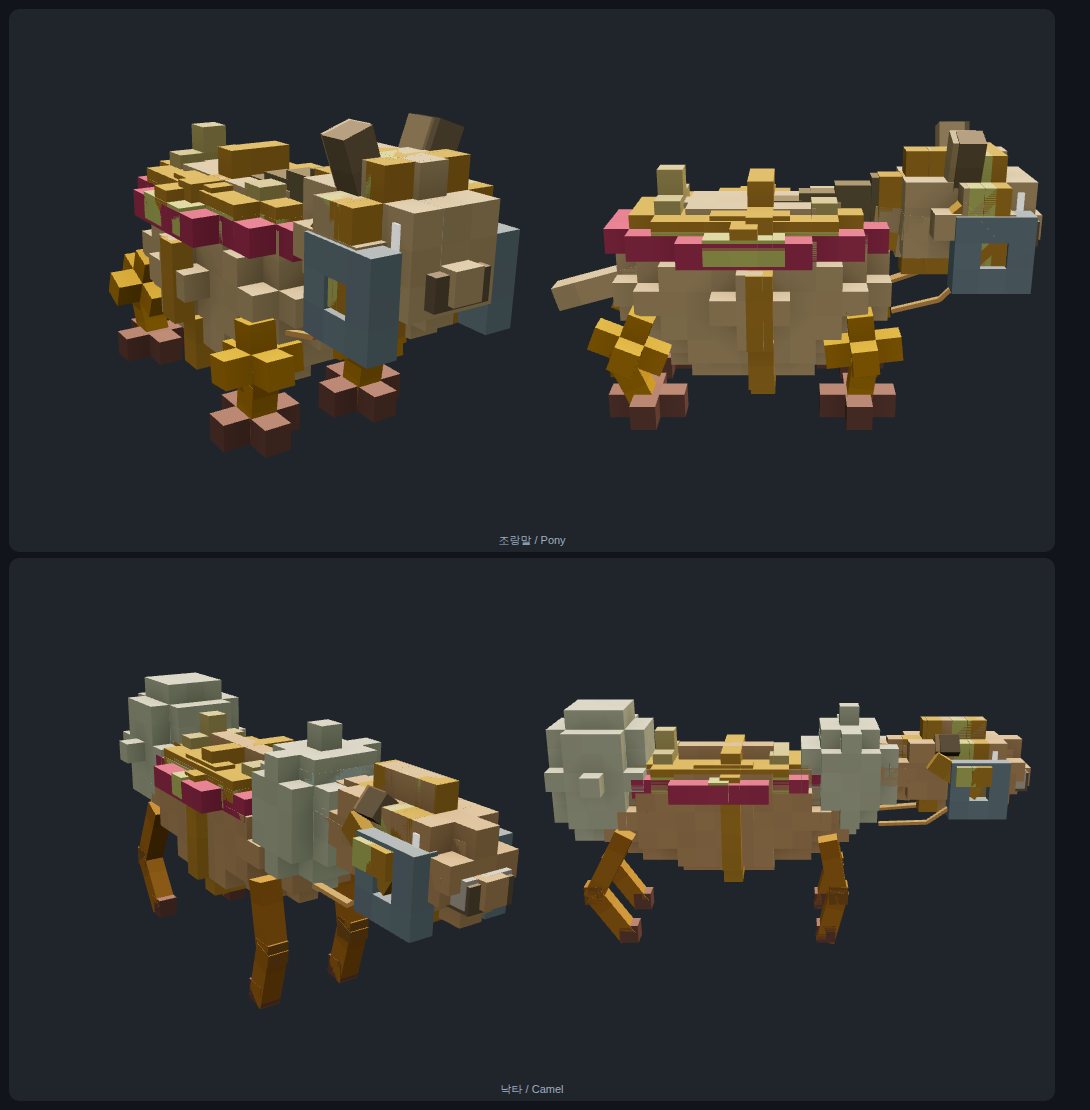
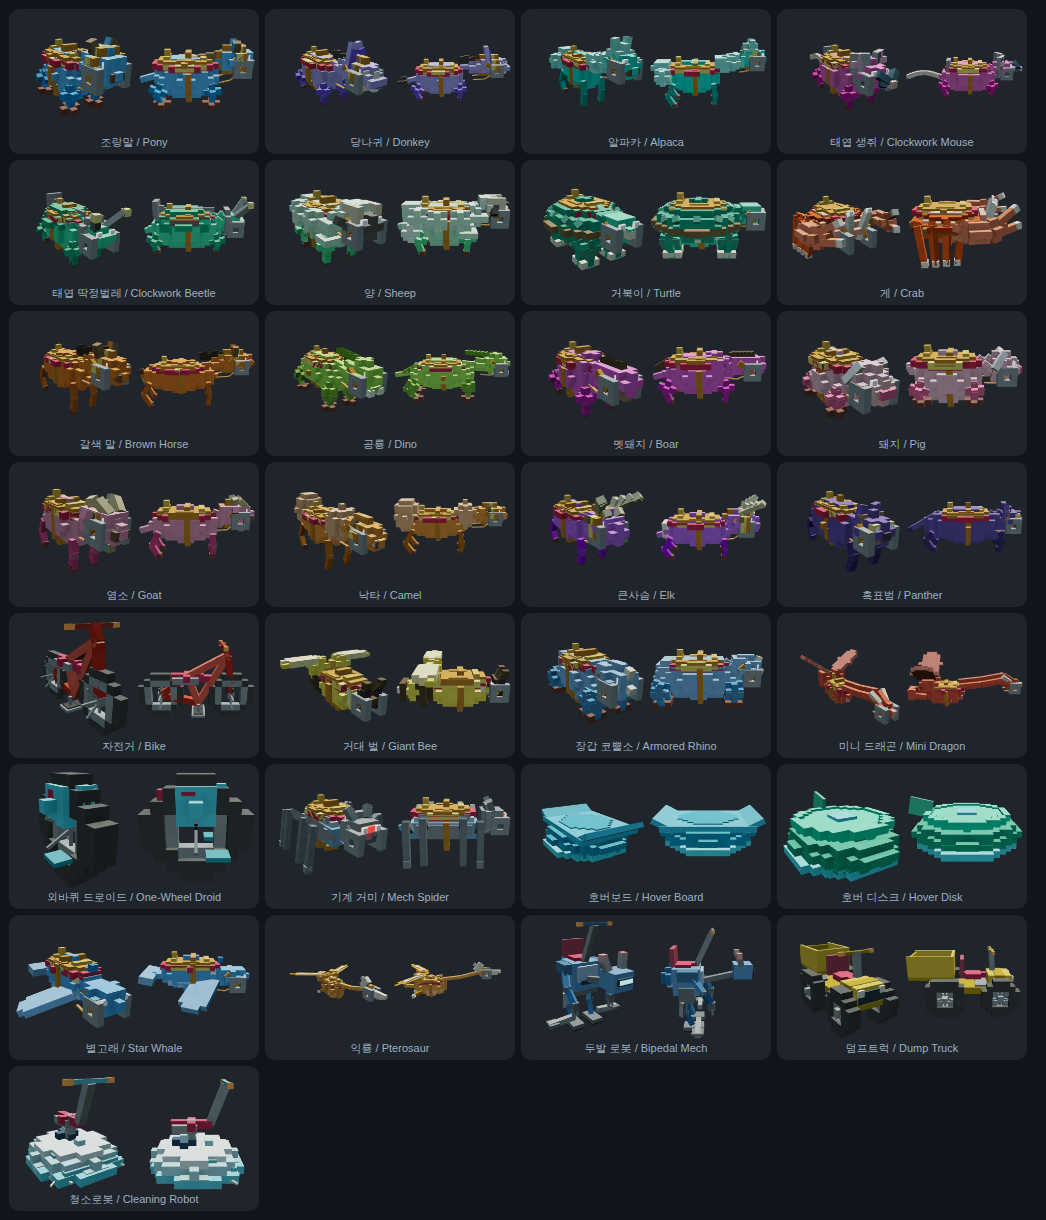
탈것 웜-사 사족 3종 냉색 candy 재배정 — 조랑말 파랑·멧돼지 마젠타·큰사슴 보라
라운드2~4 인계 메모가 '냉색 전환 or 렌더러 수정 필요'로 남긴 웜-사(死) 사족
3종(조랑말 0xff7d1a·멧돼지 0xb0402a·큰사슴 0xdd3a1e)을 처치. 셋 다 ACES+깊은
복셀 암부가 채도를 뭉개 썸네일에서 흙올리브/탄으로 죽던 것(세션2~6 이 렌더러
벽으로 확정, 웜 베이스·vivid 로는 못 뚫음). 프레시 비평가 공통 처방 'candy>사실,
냉색 재배정이 게이트를 넘긴다'에 따라 냉색 candy 로 재배정:
- 조랑말 → 0x3f8fe0 (쨍 파랑)
- 멧돼지 → 0xd046b0 (candy 마젠타)
- 큰사슴 → 0xa64de0 (아메시스트 보라)
herd 이웃(당나귀 페리윙클·돼지 핑크·염소 로즈)과 hue 를 벌려 구별도 챙김.

오가닉 액센트 없는 3종이라 accent-bodytint 와 무충돌 · 낙타(혹 accent)·갈색말
(하드코드)·벌/덤프(정체성 노랑)는 제외 · 색만 변경(지오·vivid·AO·안장 불변).

검증: probe-geo-ratchet 101 유지 · probe-mount-detached 전종 0·콘솔 0 ·
probe-creature-framing 지문 1083 일치·전 항목 PASS · node --check ·
mount-species.png 육안 3종이 흙탄→쨍 candy 로 팝(미변경 웜종 camel/bee/dump 는
여전 올리브 = 렌더러 벽 재확인).

Claude-Session: https://claude.ai/code/session_01MEmua64YBJezaMua2tTvdb

diff --git a/web/js/scene3d.js b/web/js/scene3d.js
@@ -13907,9 +13907,18 @@ const Scene3D = {
         //    웜 quad 를 **노랑-골드에서 빼내** 오렌지/레드/코랄/틸/마젠타(=곱셈·톤맵 후에도 그 색으로
         //    읽히는 hue)로 재배정한다. 초식 herd 는 이미 보라(당나귀)·핑크(돼지)·로즈(염소)로 갈렸으니
         //    나머지도 색상환으로 흩어 herd 구별까지 챙긴다. (비평가 C·D 재채점 3·4 '흙 팔레트가 여전 1순위'.)
-        'Pony': 0xff7d1a, 'Donkey': 0x8b7fcc, 'Alpaca': 0x2fb8a0, 'Sheep': 0x84cf9a,
-        'Turtle': 0x3fb082, 'Crab': 0xf05230, 'Dino': 0x7cc23a, 'Boar': 0xb0402a,
-        'Pig': 0xf593ac, 'Goat': 0xcf6f8c, 'Camel': 0xe86418, 'Elk': 0xdd3a1e,
+        // 🍬 웜-사(死) 사족 3종 냉색 candy 재배정 (mount-warm-quad-cool). 라운드2~4 인계 메모가
+        //    "조랑말·멧돼지·큰사슴은 종 정체성상 웜이라 아직 tan 으로 죽는 잔여(냉색 전환 or 렌더러 수정 필요)"로
+        //    남긴 3종을 처치. 오렌지(Pony 0xff7d1a)·브릭(Boar 0xb0402a)·다크레드(Elk 0xdd3a1e)는 전부
+        //    ACES+깊은 복셀 암부가 채도를 뭉개 썸네일에서 흙올리브/탄으로 죽었다(세션2~6 이 렌더러 벽으로
+        //    확정, 웜 베이스·vivid 로는 못 뚫음). 프레시 비평가 공통 처방 "candy>사실, 냉색으로 재배정하면
+        //    게이트를 넘는다"에 따라 냉색 candy 로 — 조랑말=쨍 파랑·멧돼지=candy 마젠타·큰사슴=아메시스트 보라.
+        //    herd 이웃(당나귀 페리윙클 0x8b7fcc·돼지 핑크·염소 로즈)과 hue 를 벌려 구별도 챙겼다.
+        //    ⚠ 오가닉 액센트(양털·플리스·낙타 혹) 없는 3종이라 accent-bodytint 와 무충돌 · 낙타(혹 accent)·
+        //    갈색말(하드코드)·벌/덤프(정체성 노랑)는 제외 · 색만 변경(지오·vivid·AO·안장 불변).
+        'Pony': 0x3f8fe0, 'Donkey': 0x8b7fcc, 'Alpaca': 0x2fb8a0, 'Sheep': 0x84cf9a,
+        'Turtle': 0x3fb082, 'Crab': 0xf05230, 'Dino': 0x7cc23a, 'Boar': 0xd046b0,
+        'Pig': 0xf593ac, 'Goat': 0xcf6f8c, 'Camel': 0xe86418, 'Elk': 0xa64de0,
         // 🚨 비행 3종 채도·명도 상향 (mount-riverbond-remake, 비평가 4인 공통 'washed-out/muddy,
         //    vivid 목표 미달' — 지상동물은 이미 통과, 비행종만 칙칙했다). 벌은 노랑을 쨍하게 올려야
         //    어두운 배마디(BEE_D)가 '줄무늬'로 대비되고(비평가 'no bee striping'), 드래곤은 진홍으로,
